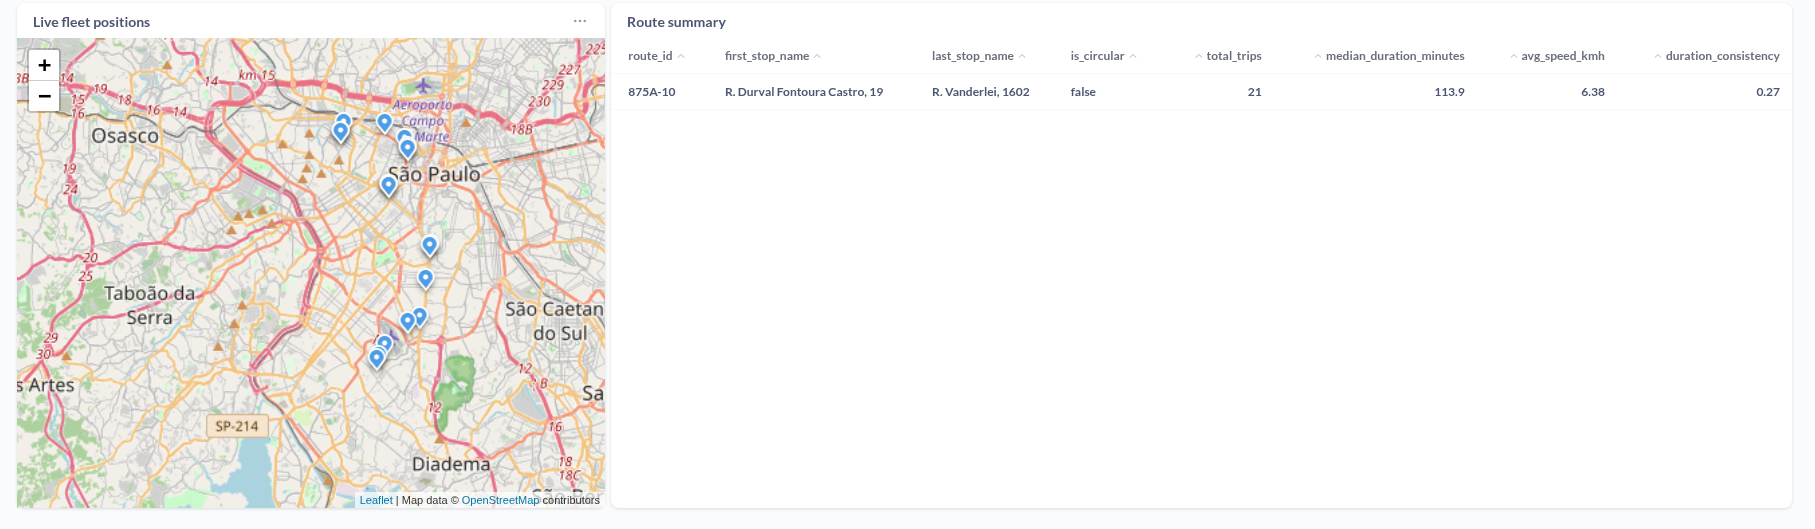
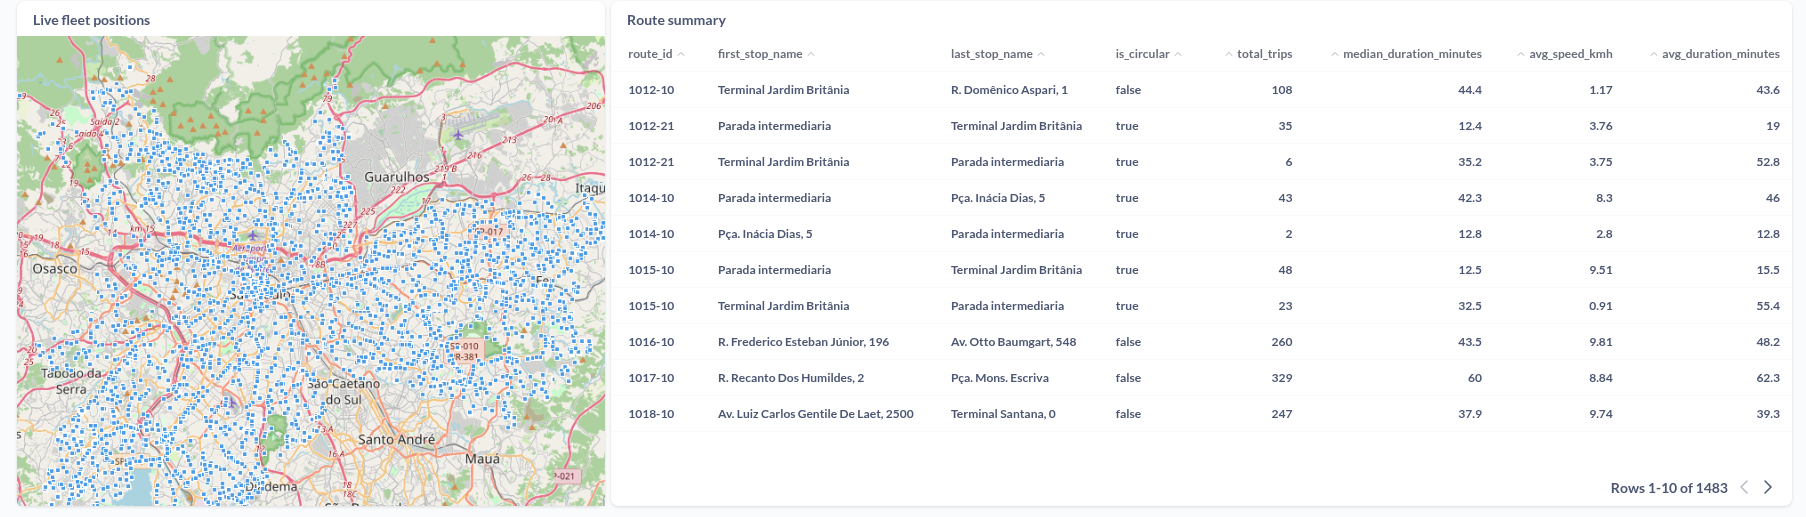
feat(metabase): adjusted the Route Summary panel to show average trip duration instead of trip reliabiity

diff --git a/metabase/README.md b/metabase/README.md
@@ -115,7 +115,7 @@ A linha de conteúdo 2 exibe: **Median and P95 duration** (mediana ≈ 18 min, P
 
 À esquerda, o mapa **Live fleet positions** exibe a distribuição dos veículos em operação em tempo real sobre o mapa de São Paulo, com pins azuis concentrados nas regiões de maior densidade de linhas.
 
-À direita, a tabela **Route summary** detalha, por rota e sentido, os terminais de origem e destino (`first_stop_name`, `last_stop_name`), o indicador `is_circular`, o total de viagens do período (`total_trips`), a duração mediana em minutos (`median_duration_minutes`), a velocidade média (`avg_speed_kmh`) e a consistência de duração (`duration_consistency`). A tabela exibe as primeiras 11 de 177 linhas para o período selecionado.
+À direita, a tabela **Route summary** detalha, por rota e sentido, os terminais de origem e destino (`first_stop_name`, `last_stop_name`), o indicador `is_circular`, o total de viagens do período (`total_trips`), a duração mediana em minutos (`median_duration_minutes`), a velocidade média (`avg_speed_kmh`) e a duração média em minutos (`avg_duration_minutes`). A tabela exibe as primeiras 11 de 177 linhas para o período selecionado.
 
 ---
 

diff --git a/metabase/README-EN.md b/metabase/README-EN.md
@@ -113,7 +113,7 @@ Content row 2 shows: **Median and P95 duration** (median ≈ 18 min, P95 ≈ 28 
 
 On the left, the **Live fleet positions** map shows the real-time distribution of vehicles in operation across São Paulo, with blue pins concentrated in the highest-density bus corridors.
 
-On the right, the **Route summary** table details, per route and direction, the origin and destination terminals (`first_stop_name`, `last_stop_name`), the `is_circular` flag, total trips in the selected period (`total_trips`), median trip duration in minutes (`median_duration_minutes`), average speed (`avg_speed_kmh`), and duration consistency (`duration_consistency`). The table shows the first 11 of 177 rows for the selected period.
+On the right, the **Route summary** table details, per route and direction, the origin and destination terminals (`first_stop_name`, `last_stop_name`), the `is_circular` flag, total trips in the selected period (`total_trips`), median trip duration in minutes (`median_duration_minutes`), average speed (`avg_speed_kmh`), and average trip duration in minutes (`avg_duration_minutes`). The table shows the first 11 of 177 rows for the selected period.
 
 ---
 
